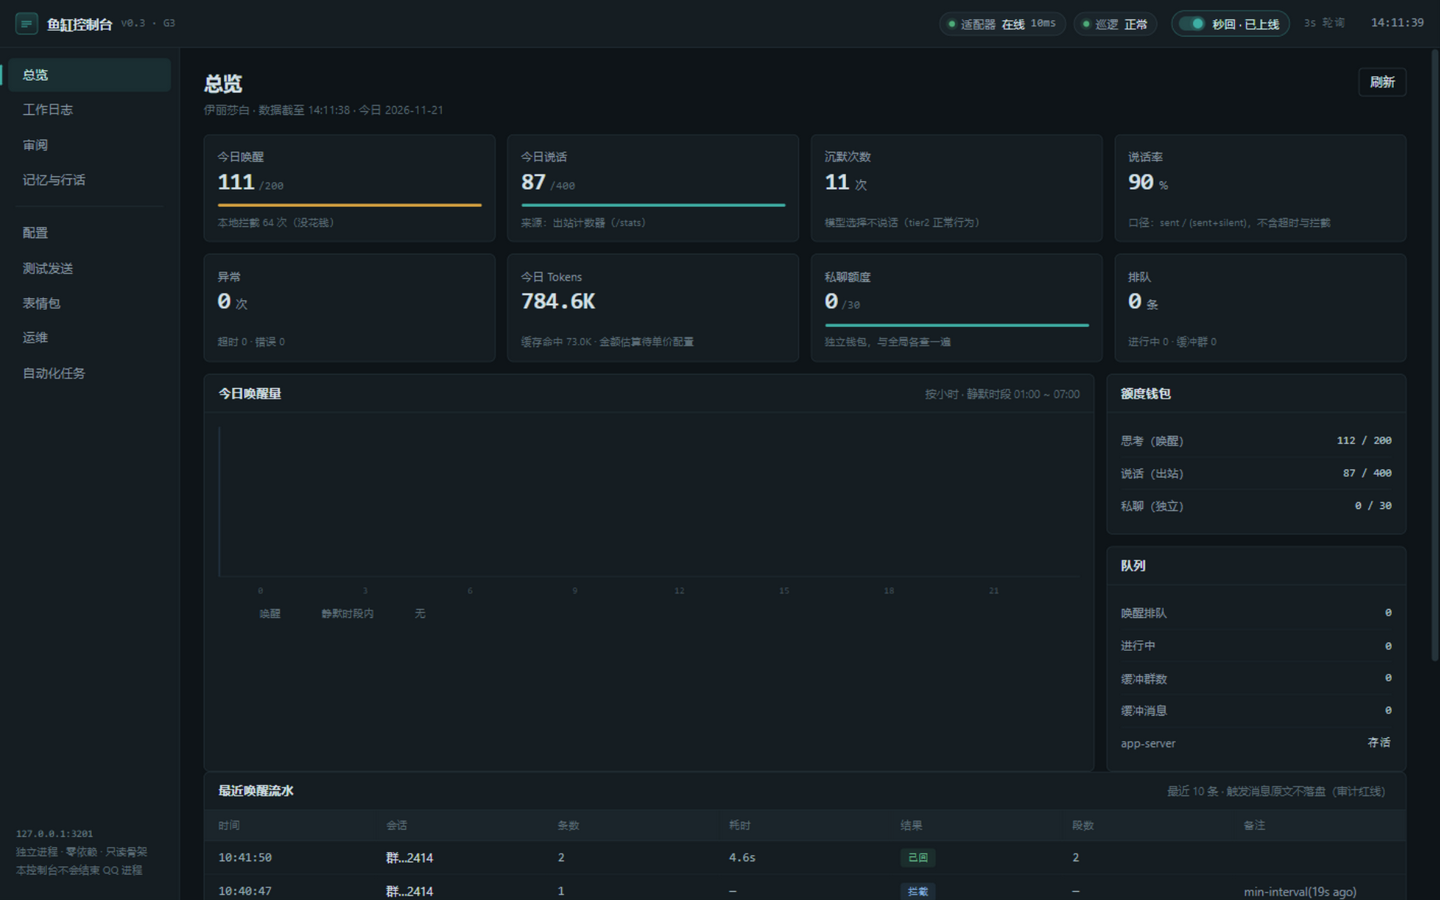
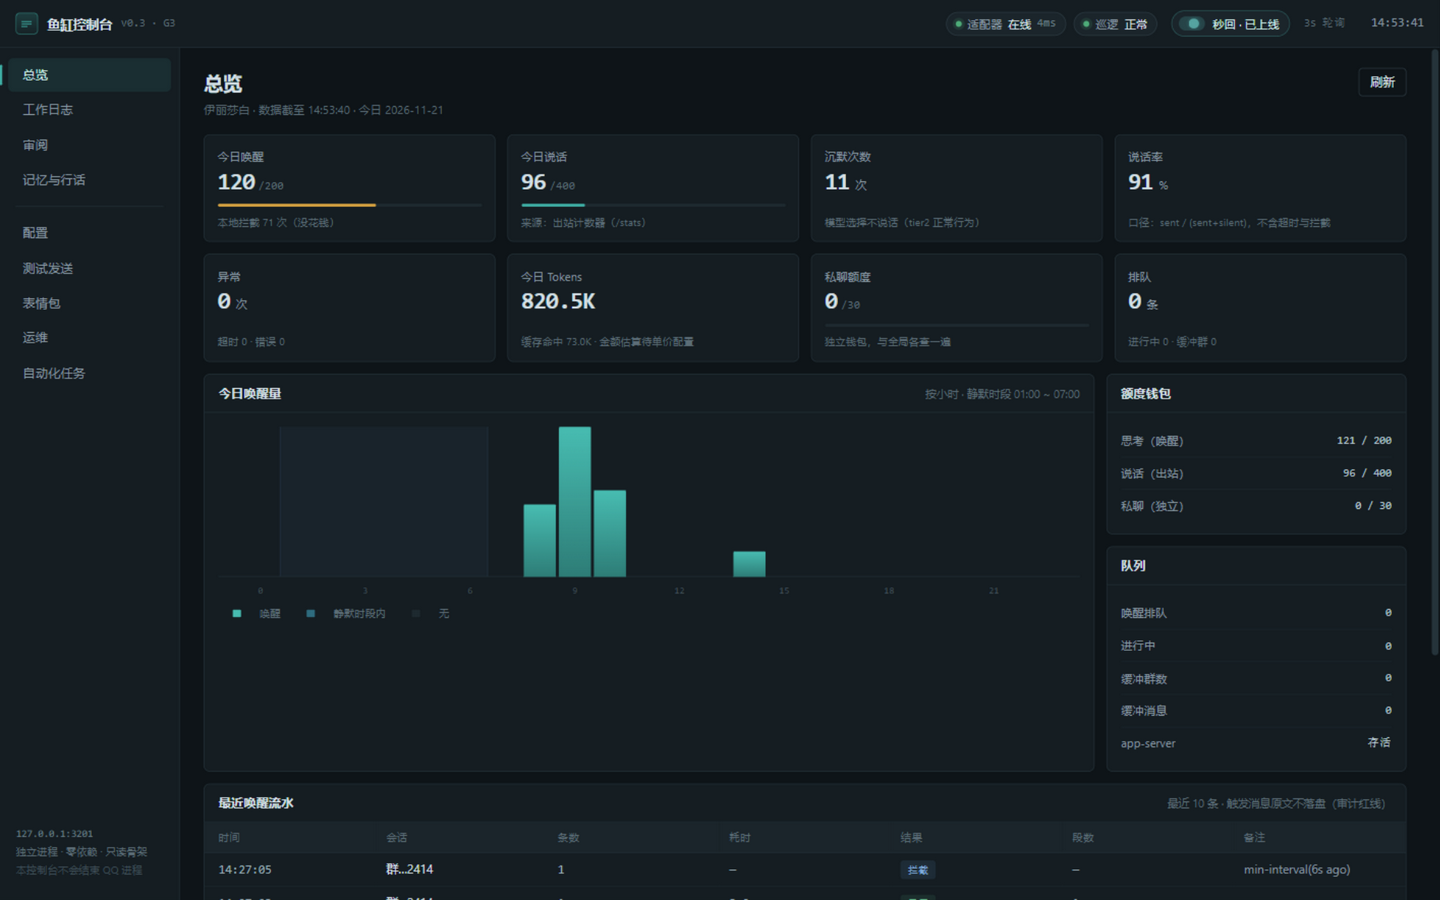
fix: CSP style-src blocked all inline styles (chart bars invisible)
- CSP lacked style-src 'unsafe-inline': style-src fell back to
  default-src 'self', which blocked every inline style attribute -
  chart bars rendered 0px tall, KPI progress bars showed full-width
  (misleading), while class-based styles kept the page looking fine
- pitfall 33 in guide; console-overview screenshot re-taken with
  working bars
- console: fail-fast on missing fishpond dir (guards against
  starting from the repo copy with no data)

diff --git a/console/app.js b/console/app.js
@@ -216,7 +216,10 @@ function renderOverview() {
     for (let h = 0; h < 24; h++) {
       const inNight = ss >= 0 && (ss <= se ? (h >= ss && h < se) : (h >= ss || h < se));
       const pct = (hours[h] / maxH) * 100;
-      bars += `<div class="bar ${inNight ? 'night-bar' : ''} ${hours[h] === 0 ? 'zero' : ''}" title="${hhmm(h)} · ${hours[h]} 次唤醒"><i style="height:${pct}%"></i></div>`;
+      // 柱高用像素内联（150px 容器，1%=1.5px；有数据至少 3px 可见）——
+      // 百分比高度在 grid 行高 auto + align-items:end 下会塌陷为 0（实测柱子全不可见的根因）
+      const px = Math.max(hours[h] > 0 ? 3 : 0, Math.round((hours[h] / maxH) * 150));
+      bars += `<div class="bar ${inNight ? 'night-bar' : ''} ${hours[h] === 0 ? 'zero' : ''}" title="${hhmm(h)} · ${hours[h]} 次唤醒"><i style="height:${px}px"></i></div>`;
     }
     $('#chart').innerHTML = (ss >= 0
       ? `<div class="night" style="left:calc(26px + ${(ss <= se ? ss : 0) / 24} * (100% - 26px)); width:calc(${(ss <= se ? se - ss : 24 - ss + se) / 24} * (100% - 26px))"></div>`

diff --git a/console/index.html b/console/index.html
@@ -5,7 +5,7 @@
 <meta name="viewport" content="width=device-width,initial-scale=1">
 <title>鱼缸控制台</title>
 <link rel="icon" href="/favicon.ico">
-<link rel="stylesheet" href="/style.css?v=g8">
+<link rel="stylesheet" href="/style.css?v=g9">
 </head>
 <body>
 <div class="app">
@@ -420,6 +420,6 @@
 </div>
 <div class="toast" id="toast"></div>
 <noscript style="color:#d7e2e8;background:#151d22;display:block;padding:20px">本控制台需要启用 JavaScript（纯本地渲染，无任何外部资源）。</noscript>
-<script src="/app.js?v=g7e"></script>
+<script src="/app.js?v=g9"></script>
 </body>
 </html>

diff --git a/docs/ZCode养鱼施工指南-通用版.md b/docs/ZCode养鱼施工指南-通用版.md
@@ -305,6 +305,7 @@ persona.md 必备要素（实测有效结构）：
 | 29 | 表情包"使用次数"恒 0，但鱼明明在发 | 适配器写 `fishpond/logs/speak.jsonl`，控制台统计读 `fish-adapter/logs/`——**路径错位**；报"统计为 0"前先 grep 写入端实际路径 |
 | 30 | "附件目录只进不出"的缺口判断是误报 | `cleanAttachments`（1h TTL + 10min 轮询）一直在 inbound 里跑——**报缺口前先 grep 写入与清理两端**，别只看目录现状 |
 | 31 | 秒回链路上线后她 600 条发言 0 表情、看图全靠敷衍 | 表情/看图的**能力指引**只写在信箱任务书里，切链路时随任务删除一起丢失——跨链路迁移要逐项核对 prompt 能力清单（能力指引≠任务配置，属于运行时技能，须迁入新链路 prompt；零工具形态还需把索引摘要由适配器代读嵌入） |
+| 32 | 控制台图表柱状图全空、KPI 进度条满宽假象——**所有内联 style 属性失效** | CSP 缺 `style-src 'unsafe-inline'` → `style-src` 回落 `default-src 'self'` 阻止全部内联样式；受影响的只有依赖内联 height/width 的组件（图表/进度条），class 样式正常所以页面"看起来没坏"；修复 = CSP 加 `style-src 'self' 'unsafe-inline'`；CSSOM（cssText）写入不受 CSP 管，attribute 写入受管——排查时两者表现不同会误导方向 |
 
 ---
 
